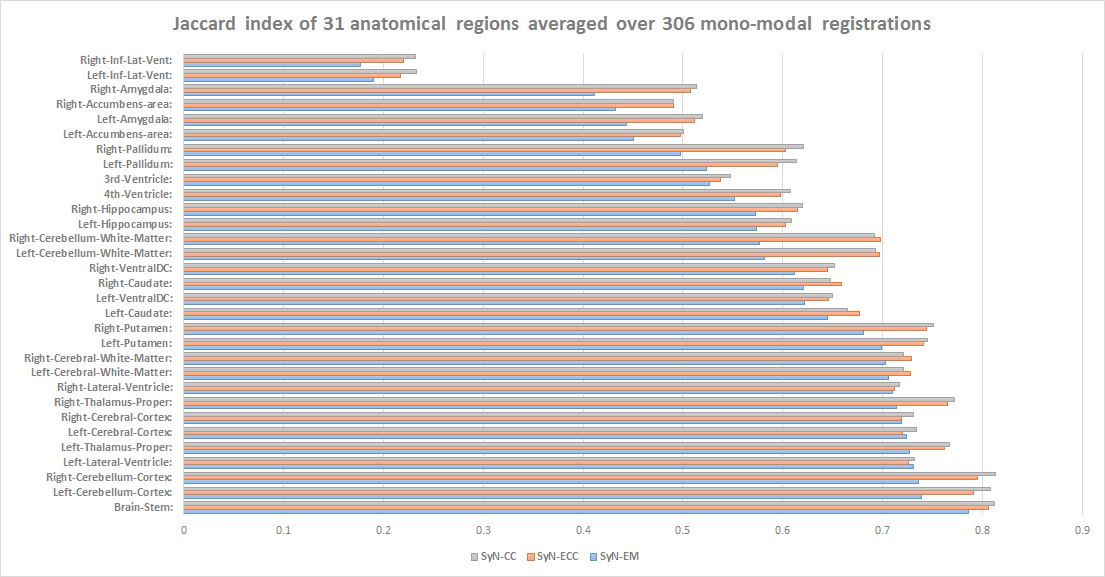
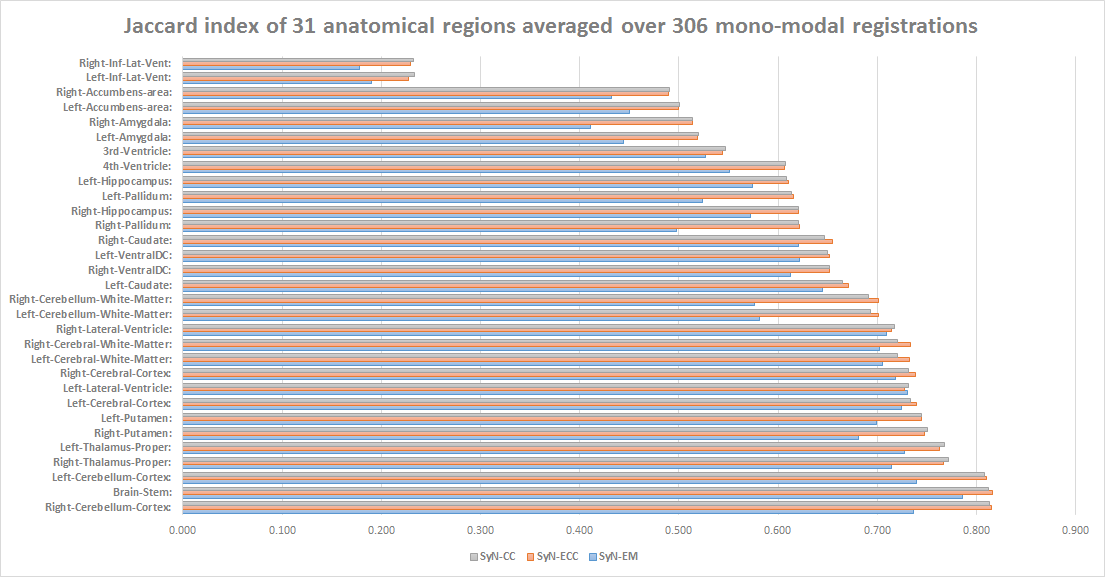
Updated SyN-ECC results: using both modalities instead of one improves its performance

diff --git a/paper/multimodal_results_seg.tex b/paper/multimodal_results_seg.tex
@@ -4,39 +4,39 @@
   {\small
     \begin{tabular}{rrrr}
     \toprule
-          & \textbf{SyN-ECC} & \textbf{SyN-EM} & \textbf{SyN-CC} \\
+          & \textbf{SyN-EM} & \textbf{SyN-ECC} & \textbf{SyN-CC} \\
     \midrule
-    \textbf{Right-Thalamus-Proper:} & \textbf{0.758} & 0.716 & 0.756 \\
-    \textbf{Left-Thalamus-Proper:} & \textbf{0.754} & 0.727 & 0.752 \\
-    \textbf{Left-Lateral-Ventricle:} & 0.709 & 0.706 & \textbf{0.733} \\
-    \textbf{Right-Lateral-Ventricle:} & 0.696 & 0.687 & \textbf{0.718} \\
-    \textbf{Left-Putamen:} & \textbf{0.740} & 0.699 & 0.683 \\
-    \textbf{Right-Putamen:} & \textbf{0.742} & 0.684 & 0.676 \\
-    \textbf{Brain-Stem:} & \textbf{0.790} & 0.786 & 0.663 \\
-    \textbf{Left-Cerebellum-Cortex:} & \textbf{0.765} & 0.729 & 0.649 \\
-    \textbf{Right-Cerebellum-Cortex:} & \textbf{0.769} & 0.729 & 0.645 \\
-    \textbf{Left-Caudate:} & \textbf{0.652} & 0.628 & 0.637 \\
-    \textbf{Right-Caudate:} & \textbf{0.636} & 0.606 & 0.618 \\
-    \textbf{Right-Cerebral-White-Matter:} & \textbf{0.723} & 0.683 & 0.571 \\
-    \textbf{Left-Cerebral-White-Matter:} & \textbf{0.722} & 0.685 & 0.570 \\
-    \textbf{Left-Cerebral-Cortex:} & \textbf{0.700} & 0.699 & 0.558 \\
-    \textbf{Right-Cerebral-Cortex:} & \textbf{0.697} & 0.694 & 0.548 \\
-    \textbf{4th-Ventricle:} & \textbf{0.583} & 0.546 & 0.543 \\
-    \textbf{Right-Hippocampus:} & \textbf{0.610} & 0.570 & 0.503 \\
-    \textbf{Right-VentralDC:} & \textbf{0.642} & 0.616 & 0.499 \\
-    \textbf{Right-Pallidum:} & \textbf{0.606} & 0.528 & 0.499 \\
-    \textbf{Left-Pallidum:} & \textbf{0.602} & 0.545 & 0.495 \\
-    \textbf{3rd-Ventricle:} & \textbf{0.517} & 0.511 & 0.492 \\
-    \textbf{Left-VentralDC:} & \textbf{0.640} & 0.622 & 0.491 \\
-    \textbf{Left-Hippocampus:} & \textbf{0.600} & 0.567 & 0.488 \\
-    \textbf{Left-Cerebellum-White-Matter:} & \textbf{0.688} & 0.582 & 0.485 \\
-    \textbf{Right-Cerebellum-White-Matter:} & \textbf{0.690} & 0.579 & 0.476 \\
-    \textbf{Left-Amygdala:} & \textbf{0.505} & 0.447 & 0.360 \\
-    \textbf{Right-Amygdala:} & \textbf{0.497} & 0.415 & 0.339 \\
-    \textbf{Right-Accumbens-area:} & \textbf{0.483} & 0.433 & 0.339 \\
-    \textbf{Left-Accumbens-area:} & \textbf{0.494} & 0.448 & 0.338 \\
-    \textbf{Left-Inf-Lat-Vent:} & \textbf{0.219} & 0.178 & 0.194 \\
-    \textbf{Right-Inf-Lat-Vent:} & \textbf{0.219} & 0.164 & 0.178 \\
+    \textbf{Right-Thalamus-Proper:} & 0.7161 & 0.75451 & \textbf{0.75602} \\
+    \textbf{Left-Thalamus-Proper:} & 0.72701 & \textbf{0.75371} & 0.7522 \\
+    \textbf{Left-Lateral-Ventricle:} & 0.70598 & 0.71334 & \textbf{0.73323} \\
+    \textbf{Right-Lateral-Ventricle:} & 0.68697 & 0.69587 & \textbf{0.71808} \\
+    \textbf{Left-Putamen:} & 0.69907 & \textbf{0.73485} & 0.6827 \\
+    \textbf{Right-Putamen:} & 0.68375 & \textbf{0.73772} & 0.67622 \\
+    \textbf{Brain-Stem:} & 0.78557 & \textbf{0.8121} & 0.66319 \\
+    \textbf{Left-Cerebellum-Cortex:} & 0.72886 & \textbf{0.79557} & 0.64943 \\
+    \textbf{Right-Cerebellum-Cortex:} & 0.72872 & \textbf{0.80068} & 0.64548 \\
+    \textbf{Left-Caudate:} & 0.62806 & \textbf{0.64603} & 0.63651 \\
+    \textbf{Right-Caudate:} & 0.60605 & \textbf{0.62812} & 0.61797 \\
+    \textbf{Right-Cerebral-White-Matter:} & 0.68257 & \textbf{0.71042} & 0.57057 \\
+    \textbf{Left-Cerebral-White-Matter:} & 0.68501 & \textbf{0.70968} & 0.56962 \\
+    \textbf{Left-Cerebral-Cortex:} & 0.69868 & \textbf{0.7164} & 0.55766 \\
+    \textbf{Right-Cerebral-Cortex:} & 0.69428 & \textbf{0.71364} & 0.54838 \\
+    \textbf{4th-Ventricle:} & 0.54624 & \textbf{0.59897} & 0.54317 \\
+    \textbf{Right-Hippocampus:} & 0.57013 & \textbf{0.60749} & 0.50303 \\
+    \textbf{Right-VentralDC:} & 0.61637 & \textbf{0.64435} & 0.49928 \\
+    \textbf{Right-Pallidum:} & 0.52814 & \textbf{0.60154} & 0.49895 \\
+    \textbf{Left-Pallidum:} & 0.5449 & \textbf{0.59836} & 0.49461 \\
+    \textbf{3rd-Ventricle:} & 0.51102 & \textbf{0.53468} & 0.49187 \\
+    \textbf{Left-VentralDC:} & 0.6225 & \textbf{0.64437} & 0.49077 \\
+    \textbf{Left-Hippocampus:} & 0.56729 & \textbf{0.59594} & 0.48811 \\
+    \textbf{Left-Cerebellum-White-Matter:} & 0.58249 & \textbf{0.6846} & 0.48538 \\
+    \textbf{Right-Cerebellum-White-Matter:} & 0.57883 & \textbf{0.68812} & 0.47638 \\
+    \textbf{Left-Amygdala:} & 0.44706 & \textbf{0.5092} & 0.36027 \\
+    \textbf{Right-Amygdala:} & 0.41543 & \textbf{0.498} & 0.33932 \\
+    \textbf{Right-Accumbens-area:} & 0.43332 & \textbf{0.47587} & 0.33884 \\
+    \textbf{Left-Accumbens-area:} & 0.44791 & \textbf{0.48662} & 0.33846 \\
+    \textbf{Left-Inf-Lat-Vent:} & 0.1785 & \textbf{0.21448} & 0.19384 \\
+    \textbf{Right-Inf-Lat-Vent:} & 0.16421 & \textbf{0.2147} & 0.17818 \\
     \bottomrule
     \end{tabular}}%
     \caption{Comparison of the registration performance (measured by the Jaccard index over 31 anatomical regions) of the Greedy SyN algorithm with EM, ECC and CC metrics. The Jaccard

diff --git a/paper/monomodal_results_seg.tex b/paper/monomodal_results_seg.tex
@@ -6,37 +6,37 @@
     \toprule
     \textbf{} & \textbf{SyN-EM} & \textbf{SyN-ECC} & \textbf{SyN-CC} \\
     \midrule
-    \textbf{Brain-Stem:} & 0.786 & 0.806 & \textbf{0.812} \\
-    \textbf{Left-Cerebellum-Cortex:} & 0.739 & 0.791 & \textbf{0.808} \\
-    \textbf{Right-Cerebellum-Cortex:} & 0.736 & 0.795 & \textbf{0.813} \\
-    \textbf{Left-Lateral-Ventricle:} & 0.731 & 0.725 & \textbf{0.732} \\
-    \textbf{Left-Thalamus-Proper:} & 0.727 & 0.762 & \textbf{0.767} \\
-    \textbf{Left-Cerebral-Cortex:} & 0.724 & 0.720 & \textbf{0.733} \\
-    \textbf{Right-Cerebral-Cortex:} & 0.719 & 0.719 & \textbf{0.731} \\
-    \textbf{Right-Thalamus-Proper:} & 0.714 & 0.764 & \textbf{0.772} \\
-    \textbf{Right-Lateral-Ventricle:} & 0.709 & 0.712 & \textbf{0.717} \\
-    \textbf{Left-Cerebral-White-Matter:} & 0.705 & \textbf{0.728} & 0.721 \\
-    \textbf{Right-Cerebral-White-Matter:} & 0.702 & \textbf{0.729} & 0.720 \\
-    \textbf{Left-Putamen:} & 0.699 & 0.740 & \textbf{0.744} \\
-    \textbf{Right-Putamen:} & 0.681 & 0.744 & \textbf{0.751} \\
-    \textbf{Left-Caudate:} & 0.645 & \textbf{0.677} & 0.665 \\
-    \textbf{Left-VentralDC:} & 0.622 & 0.645 & \textbf{0.650} \\
-    \textbf{Right-Caudate:} & 0.620 & \textbf{0.659} & 0.647 \\
-    \textbf{Right-VentralDC:} & 0.612 & 0.645 & \textbf{0.652} \\
-    \textbf{Left-Cerebellum-White-Matter:} & 0.581 & \textbf{0.696} & 0.693 \\
-    \textbf{Right-Cerebellum-White-Matter:} & 0.576 & \textbf{0.698} & 0.691 \\
-    \textbf{Left-Hippocampus:} & 0.574 & 0.602 & \textbf{0.609} \\
-    \textbf{Right-Hippocampus:} & 0.572 & 0.615 & \textbf{0.620} \\
-    \textbf{4th-Ventricle:} & 0.551 & 0.598 & \textbf{0.608} \\
-    \textbf{3rd-Ventricle:} & 0.527 & 0.537 & \textbf{0.547} \\
-    \textbf{Left-Pallidum:} & 0.524 & 0.594 & \textbf{0.614} \\
-    \textbf{Right-Pallidum:} & 0.498 & 0.603 & \textbf{0.620} \\
-    \textbf{Left-Accumbens-area:} & 0.451 & 0.498 & \textbf{0.500} \\
-    \textbf{Left-Amygdala:} & 0.444 & 0.511 & \textbf{0.519} \\
-    \textbf{Right-Accumbens-area:} & 0.433 & \textbf{0.491} & 0.490 \\
-    \textbf{Right-Amygdala:} & 0.411 & 0.508 & \textbf{0.514} \\
-    \textbf{Left-Inf-Lat-Vent:} & 0.190 & 0.217 & \textbf{0.233} \\
-    \textbf{Right-Inf-Lat-Vent:} & 0.177 & 0.220 & \textbf{0.232} \\
+    \textbf{Right-Cerebellum-Cortex:} & 0.736 & \textbf{0.815} & 0.813 \\
+    \textbf{Brain-Stem:} & 0.786 & \textbf{0.816} & 0.812 \\
+    \textbf{Left-Cerebellum-Cortex:} & 0.739 & \textbf{0.811} & 0.808 \\
+    \textbf{Right-Thalamus-Proper:} & 0.714 & 0.766 & \textbf{0.772} \\
+    \textbf{Left-Thalamus-Proper:} & 0.727 & 0.763 & \textbf{0.767} \\
+    \textbf{Right-Putamen:} & 0.681 & 0.748 & \textbf{0.751} \\
+    \textbf{Left-Putamen:} & 0.699 & 0.744 & \textbf{0.744} \\
+    \textbf{Left-Cerebral-Cortex:} & 0.724 & \textbf{0.739} & 0.733 \\
+    \textbf{Left-Lateral-Ventricle:} & 0.731 & 0.727 & \textbf{0.732} \\
+    \textbf{Right-Cerebral-Cortex:} & 0.719 & \textbf{0.739} & 0.731 \\
+    \textbf{Left-Cerebral-White-Matter:} & 0.705 & \textbf{0.732} & 0.721 \\
+    \textbf{Right-Cerebral-White-Matter:} & 0.702 & \textbf{0.733} & 0.720 \\
+    \textbf{Right-Lateral-Ventricle:} & 0.709 & 0.714 & \textbf{0.717} \\
+    \textbf{Left-Cerebellum-White-Matter:} & 0.581 & \textbf{0.701} & 0.693 \\
+    \textbf{Right-Cerebellum-White-Matter:} & 0.576 & \textbf{0.701} & 0.691 \\
+    \textbf{Left-Caudate:} & 0.645 & \textbf{0.671} & 0.665 \\
+    \textbf{Right-VentralDC:} & 0.612 & 0.651 & \textbf{0.652} \\
+    \textbf{Left-VentralDC:} & 0.622 & \textbf{0.651} & 0.650 \\
+    \textbf{Right-Caudate:} & 0.620 & \textbf{0.655} & 0.647 \\
+    \textbf{Right-Pallidum:} & 0.498 & \textbf{0.622} & 0.620 \\
+    \textbf{Right-Hippocampus:} & 0.572 & \textbf{0.621} & 0.620 \\
+    \textbf{Left-Pallidum:} & 0.524 & \textbf{0.615} & 0.614 \\
+    \textbf{Left-Hippocampus:} & 0.574 & \textbf{0.610} & 0.609 \\
+    \textbf{4th-Ventricle:} & 0.551 & 0.606 & \textbf{0.608} \\
+    \textbf{3rd-Ventricle:} & 0.527 & 0.544 & \textbf{0.547} \\
+    \textbf{Left-Amygdala:} & 0.444 & 0.519 & \textbf{0.519} \\
+    \textbf{Right-Amygdala:} & 0.411 & 0.513 & \textbf{0.514} \\
+    \textbf{Left-Accumbens-area:} & 0.451 & 0.500 & \textbf{0.500} \\
+    \textbf{Right-Accumbens-area:} & 0.433 & 0.490 & \textbf{0.490} \\
+    \textbf{Left-Inf-Lat-Vent:} & 0.190 & 0.228 & \textbf{0.233} \\
+    \textbf{Right-Inf-Lat-Vent:} & 0.177 & 0.230 & \textbf{0.232} \\
     \bottomrule
     \end{tabular}}%
     \caption{Comparison of the registration performance (measured by the Jaccard index over 31 anatomical regions) of the Greedy SyN algorithm with EM, ECC and CC metrics. The Jaccard

diff --git a/paper/monomodal_results_segTri_fill.tex b/paper/monomodal_results_segTri_fill.tex
@@ -4,12 +4,12 @@
   {\small
     \begin{tabular}{rrrr}
     \toprule
-    \textbf{} & \textbf{SyNEM} & \textbf{SyN-ECC} & \textbf{SyN-CC} \\
+    \textbf{} & \textbf{SyN-EM} & \textbf{SyN-ECC} & \textbf{SyN-CC} \\
     \midrule
-    \textbf{Background} & \textbf{0.994} & 0.993 & 0.995 \\
-    \textbf{CSF} & 0.335 & 0.277 & \textbf{0.359} \\
-    \textbf{Gray Matter} & 0.740 & 0.746 & \textbf{0.759} \\
-    \textbf{White Matter} & 0.703 & \textbf{0.735} & 0.728 \\
+    \textbf{Background} & 0.994 & 0.995 & \textbf{0.995} \\
+    \textbf{CSF} & 0.335 & 0.349 & \textbf{0.359} \\
+    \textbf{Gray Matter} & 0.740 & \textbf{0.765} & 0.759 \\
+    \textbf{White Matter} & 0.703 & \textbf{0.739} & 0.728 \\
     \bottomrule
     \end{tabular}%
     \caption{Comparison of the registration performance (measured by the Jaccard index over Background, CSF, GM and WM)of the Greedy SyN algorithm with EM, ECC and CC metrics. The Jaccard

diff --git a/paper/multimodal_results_segTri_fill.tex b/paper/multimodal_results_segTri_fill.tex
@@ -4,12 +4,12 @@
   {\small
     \begin{tabular}{rrrr}
     \toprule
-          & \textbf{SyN-ECC} & \textbf{SyN-EM} & \textbf{SyN-CC} \\
+          & \textbf{SyN-EM} & \textbf{SyN-ECC} & \textbf{SyN-CC} \\
     \midrule
-    \textbf{Background} & 0.991 & \textbf{0.993} & 0.990 \\
-    \textbf{CSF} & 0.216 & \textbf{0.275} & 0.157 \\
-    \textbf{Gray Matter} & \textbf{0.725} & 0.718 & 0.597 \\
-    \textbf{White Matter} & \textbf{0.728} & 0.685 & 0.572 \\
+    \textbf{Background} & 0.993 & \textbf{0.995} & 0.990 \\
+    \textbf{CSF} & 0.275 & \textbf{0.335} & 0.157 \\
+    \textbf{Gray Matter} & 0.718 & \textbf{0.742} & 0.597 \\
+    \textbf{White Matter} & 0.685 & \textbf{0.718} & 0.572 \\
     \bottomrule
     \end{tabular}}%
   \caption{Comparison of the registration performance (measured by the Jaccard index over Background, CSF, GM and WM)of the Greedy SyN algorithm with EM, ECC and CC metrics. The Jaccard

diff --git a/paper/synem.tex b/paper/synem.tex
@@ -25,9 +25,9 @@
 
 \maketitle
 
-\input{abstract}
-\input{introduction}
-\input{methods}
+%\input{abstract}
+%\input{introduction}
+%\input{methods}
 \input{experiments}
 
 \bibliographystyle{plain}
